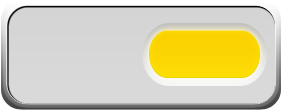
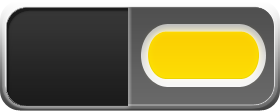
SparkZNC V1.0

diff --git a/qindicate.cpp b/qindicate.cpp
@@ -76,8 +76,8 @@ void Qindicate::drawWidget(QPainter *painter)
     painter->fillRect(pad+(width()-2*pad)/2+1,pad,(width()-2*pad)/2,height()-2*pad,v_color);*/
 
     /*画标签*/
-    painter->setPen(l_color);
-    painter->setBrush(l_color);
+    painter->setPen(b_color);
+    painter->setBrush(b_color);
 
     QFont font = qApp->font();
     font.setPointSize(14);
@@ -89,6 +89,10 @@ void Qindicate::drawWidget(QPainter *painter)
 
     painter->translate(width()/4, height()/2);
     painter->drawText(-w/2 ,h/2-pad ,label);
+
+    /*画标签*/
+    painter->setPen(l_color);
+    painter->setBrush(l_color);
     /*画数据*/
     QString str = QString::number(value);
 

diff --git a/qcheck.cpp b/qcheck.cpp
@@ -16,7 +16,7 @@ Qcheck::Qcheck(QWidget *parent) :
     f_color = QColor(255,0,0);
     b_color = QColor(255,255,255);
     t_color = QColor(0,255,0);
-    l_color = QColor(0,0,0);
+    l_color = QColor(255,255,255);
     r_color = QColor(64,64,64);
     z_color = QColor(128,128,128);
     off = QPixmap(":/off.png");
@@ -33,7 +33,7 @@ Qcheck::Qcheck(QWidget *parent ,QString l,unsigned int i):
     f_color = QColor(255,0,0);
     b_color = QColor(255,255,255);
     t_color = QColor(0,255,0);
-    l_color = QColor(0,0,0);
+    l_color = QColor(255,255,255);
     r_color = QColor(64,64,64);
     z_color = QColor(128,128,128);
     off = QPixmap(":/off.png");
